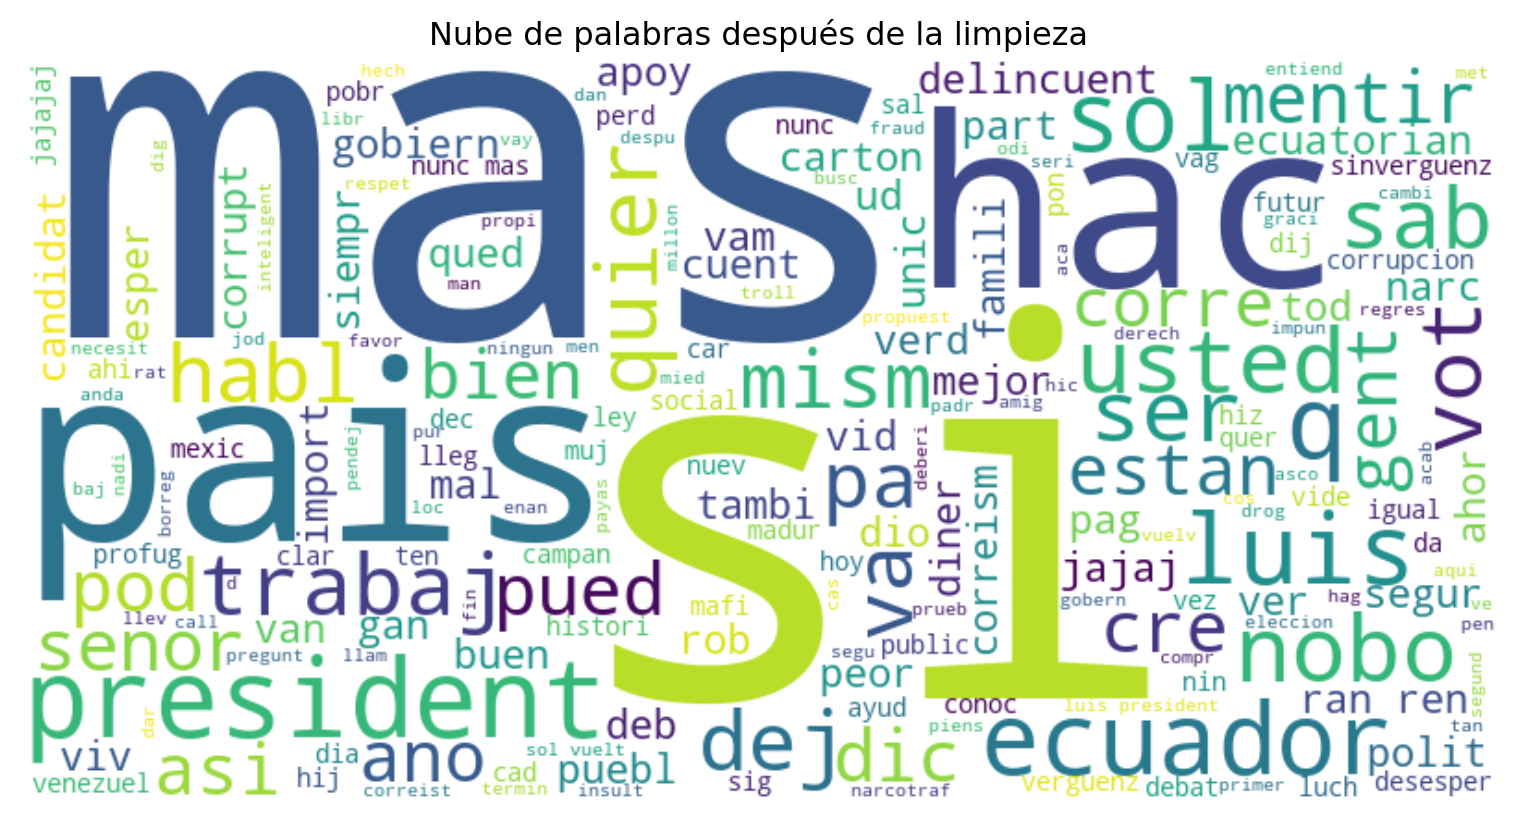
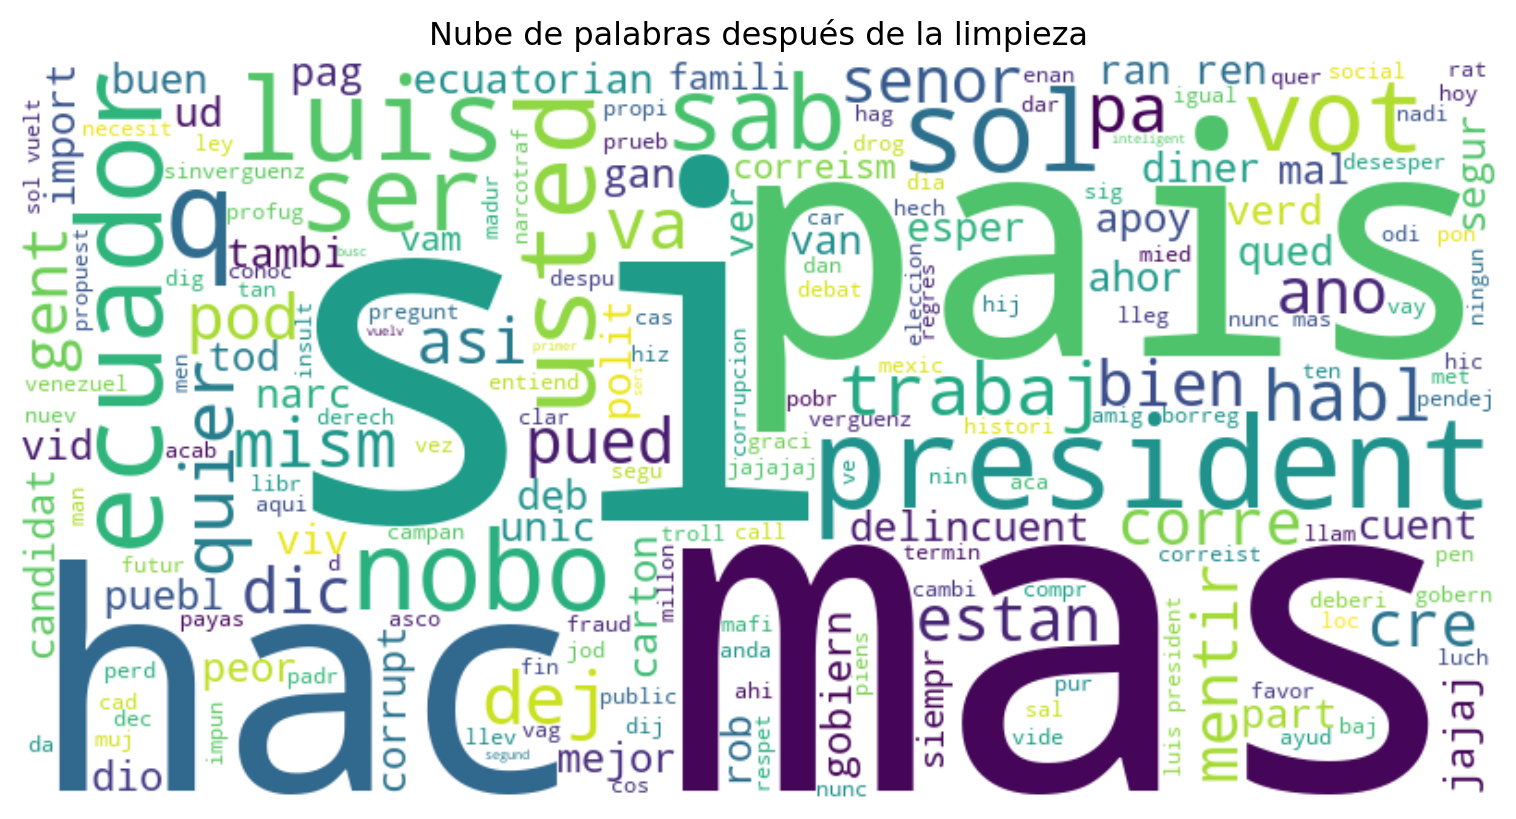
proyecto1647

diff --git a/docs/proyecto.html b/docs/proyecto.html
@@ -1016,23 +1016,23 @@ memory usage: 285.8+ KB</code></pre>
 <div id="distribucion_toxicity" class="cell-output cell-output-display" data-execution_count="5">
 
 <style>
-  #altair-viz-7f235c4a9e134a49a48dabec0dc599eb.vega-embed {
+  #altair-viz-6737cdf7864440ecb4bd41bf3a8d036d.vega-embed {
     width: 100%;
     display: flex;
   }
 
-  #altair-viz-7f235c4a9e134a49a48dabec0dc599eb.vega-embed details,
-  #altair-viz-7f235c4a9e134a49a48dabec0dc599eb.vega-embed details summary {
+  #altair-viz-6737cdf7864440ecb4bd41bf3a8d036d.vega-embed details,
+  #altair-viz-6737cdf7864440ecb4bd41bf3a8d036d.vega-embed details summary {
     position: relative;
   }
 </style>
-<div id="altair-viz-7f235c4a9e134a49a48dabec0dc599eb"></div>
+<div id="altair-viz-6737cdf7864440ecb4bd41bf3a8d036d"></div>
 <script type="text/javascript">
   var VEGA_DEBUG = (typeof VEGA_DEBUG == "undefined") ? {} : VEGA_DEBUG;
   (function(spec, embedOpt){
     let outputDiv = document.currentScript.previousElementSibling;
-    if (outputDiv.id !== "altair-viz-7f235c4a9e134a49a48dabec0dc599eb") {
-      outputDiv = document.getElementById("altair-viz-7f235c4a9e134a49a48dabec0dc599eb");
+    if (outputDiv.id !== "altair-viz-6737cdf7864440ecb4bd41bf3a8d036d") {
+      outputDiv = document.getElementById("altair-viz-6737cdf7864440ecb4bd41bf3a8d036d");
     }
 
     const paths = {
@@ -1250,7 +1250,7 @@ dtype: int64</code></pre>
 <span id="cb16-39"><a href="#cb16-39" aria-hidden="true" tabindex="-1"></a></span>
 <span id="cb16-40"><a href="#cb16-40" aria-hidden="true" tabindex="-1"></a>df[<span class="st">'content'</span>] <span class="op">=</span> df[<span class="st">'content'</span>].<span class="bu">apply</span>(clean_text)</span></code></pre></div><button title="Copy to Clipboard" class="code-copy-button"><i class="bi"></i></button></div>
 <div class="cell-output cell-output-stderr">
-<pre><code>C:\Users\daltamirano\AppData\Local\Temp\ipykernel_18324\4034373993.py:40: SettingWithCopyWarning: 
+<pre><code>C:\Users\daltamirano\AppData\Local\Temp\ipykernel_14760\4034373993.py:40: SettingWithCopyWarning: 
 A value is trying to be set on a copy of a slice from a DataFrame.
 Try using .loc[row_indexer,col_indexer] = value instead
 
@@ -1350,7 +1350,7 @@ Name: content, dtype: object</code></pre>
 <span id="cb21-6"><a href="#cb21-6" aria-hidden="true" tabindex="-1"></a>y_clf <span class="op">=</span> df[<span class="st">'toxicity_level'</span>]</span>
 <span id="cb21-7"><a href="#cb21-7" aria-hidden="true" tabindex="-1"></a>y_reg <span class="op">=</span> df[<span class="st">'toxicity_score'</span>]</span></code></pre></div><button title="Copy to Clipboard" class="code-copy-button"><i class="bi"></i></button></div>
 <div class="cell-output cell-output-stderr">
-<pre><code>C:\Users\daltamirano\AppData\Local\Temp\ipykernel_18324\1159134381.py:5: SettingWithCopyWarning: 
+<pre><code>C:\Users\daltamirano\AppData\Local\Temp\ipykernel_14760\1159134381.py:5: SettingWithCopyWarning: 
 A value is trying to be set on a copy of a slice from a DataFrame.
 Try using .loc[row_indexer,col_indexer] = value instead
 
@@ -1494,7 +1494,7 @@ ROC-AUC Score (Weighted): 0.8027</code></pre>
 <section id="conclusiones-del-modelo-de-clasificación." class="level3">
 <h3 class="anchored" data-anchor-id="conclusiones-del-modelo-de-clasificación.">Conclusiones del modelo de clasificación.</h3>
 <ul>
-<li>El modelo de Regresión Logística (con class_weight=‘balanced’ para manejar el desbalance) obtuvo un Accuracy general de 0.70, esto puede ser engañoso considerando ques se tiene un fuerte desbalanceo de las clases como se puede observar en el grafico de distribución de la Toxicidad.</li>
+<li>El modelo de Regresión Logística (con class_weight=‘balanced’ para manejar el desbalance) obtuvo un Accuracy general de 0.70, esto puede ser engañoso considerando que se tiene un fuerte desbalanceo de las clases como se puede observar en el grafico de distribución de la Toxicidad.</li>
 <li>Considerando que el dataset es una de muestra, modelo puede mejorar con más datos de entrenamiento y de predicción.</li>
 </ul>
 </section>
@@ -1652,7 +1652,7 @@ cluster
 4               0.010870  0.836957  0.152174</code></pre>
 </div>
 <div class="cell-output cell-output-stderr">
-<pre><code>C:\Users\daltamirano\AppData\Local\Temp\ipykernel_18324\3072938535.py:4: SettingWithCopyWarning: 
+<pre><code>C:\Users\daltamirano\AppData\Local\Temp\ipykernel_14760\3072938535.py:4: SettingWithCopyWarning: 
 A value is trying to be set on a copy of a slice from a DataFrame.
 Try using .loc[row_indexer,col_indexer] = value instead
 
@@ -1664,7 +1664,7 @@ See the caveats in the documentation: https://pandas.pydata.org/pandas-docs/stab
 <section id="conclusiones-del-modelo-de-clustering-k-means" class="level3">
 <h3 class="anchored" data-anchor-id="conclusiones-del-modelo-de-clustering-k-means">Conclusiones del Modelo de Clustering (K-Means)</h3>
 <ul>
-<li>De observado en la grafica el metodo del codo no da un valor que nos pueda dar un indicio de un valor optimo</li>
+<li>De observado en la gráfica el método del codo no da un valor que nos pueda dar un indicio de un valor optimo</li>
 <li>El algoritmo (K-Means) no agrupó los tweets por su nivel de toxicidad. En lugar de eso, casi con seguridad los agrupó por TEMA, y lo que estás viendo es qué temas tienden a ser más tóxicos que otros.</li>
 </ul>
 </section>
@@ -1674,9 +1674,9 @@ See the caveats in the documentation: https://pandas.pydata.org/pandas-docs/stab
 <h1>Conclusiones del Proyecto</h1>
 <ul>
 <li><p>Como se ha estudio a lo largo del curso hay varios factores claves para obtener un resultado satisfactorio:</p></li>
-<li><p>Conocer o estudiar la data que vamos a manejar .</p></li>
+<li><p>Conocer o estudiar la data que vamos a manejar.</p></li>
 <li><p>Obtener una data saludable.</p></li>
-<li><p>No hay una formula (receta) que se pueda seguir todo dataset tienen sus complejidades y su objetivo especifico.</p></li>
+<li><p>No hay una formula (receta) que se pueda seguir, todo dataset tienen sus complejidades y su objetivo específico.</p></li>
 <li><p>Para un resultado optimo se debe realizar pruebas con diferentes algoritmos. “En este proyecto, se aplicó un flujo completo de Machine Learning. El preprocesamiento fue clave, combinando metadatos y texto usando ColumnTransformer.”</p></li>
 <li><p>Rendimiento de Modelos: El modelo de Regresión parece ser más informativo que el de Clasificación, ya que predecir el grado de toxicidad es más útil que una categoría, especialmente dado el severo desbalance de las clases ‘Media’ y ‘Alta’ que dificulta la clasificación.”</p></li>
 <li><p>Patrones Encontrados: “El clustering confirmó que la toxicidad no es un grupo aislado, sino una propiedad que aparece con más frecuencia en ciertos grupos temáticos.”</p></li>
